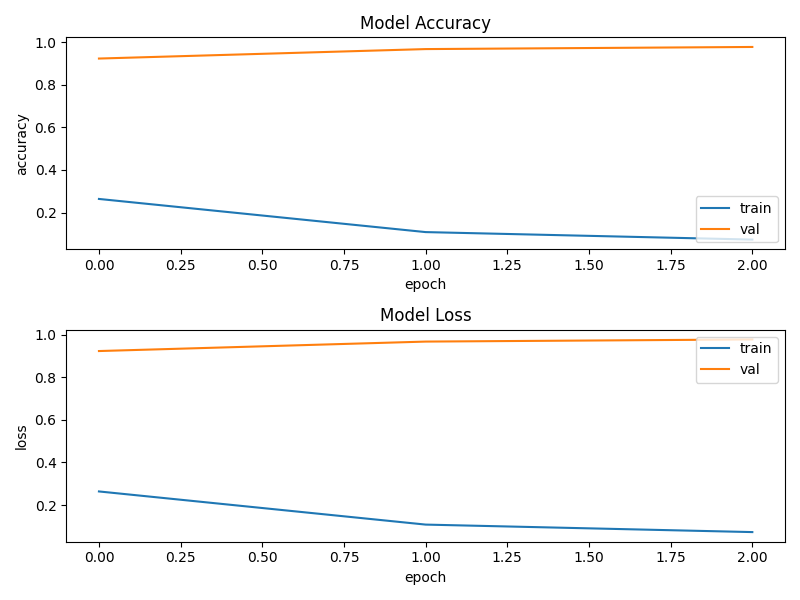
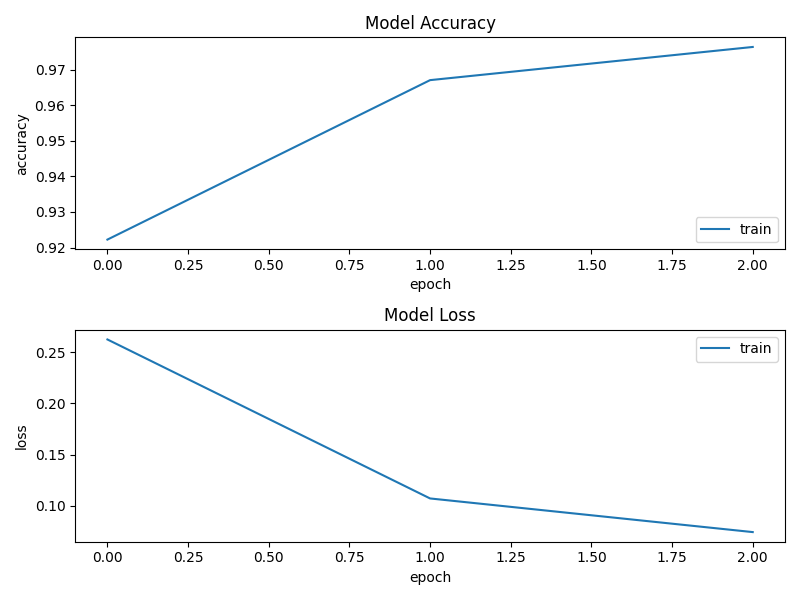
feature: add html for painting numbers

diff --git a/services/deep_learning_service.py b/services/deep_learning_service.py
@@ -56,15 +56,15 @@ def trainDNN():
 def plotMetrics(training):
     fig = plt.figure(figsize=(8, 6))
     plt.subplot(2, 1, 1)
-    plt.plot(training.history['loss'])
+
     plt.plot(training.history['accuracy'])
     plt.title('Model Accuracy')
     plt.ylabel('accuracy')
     plt.xlabel('epoch')
     plt.legend(['train', 'val'], loc='lower right')
     plt.subplot(2, 1, 2)
+
     plt.plot(training.history['loss'])
-    plt.plot(training.history['accuracy'])
     plt.title('Model Loss')
     plt.ylabel('loss')
     plt.xlabel('epoch')
